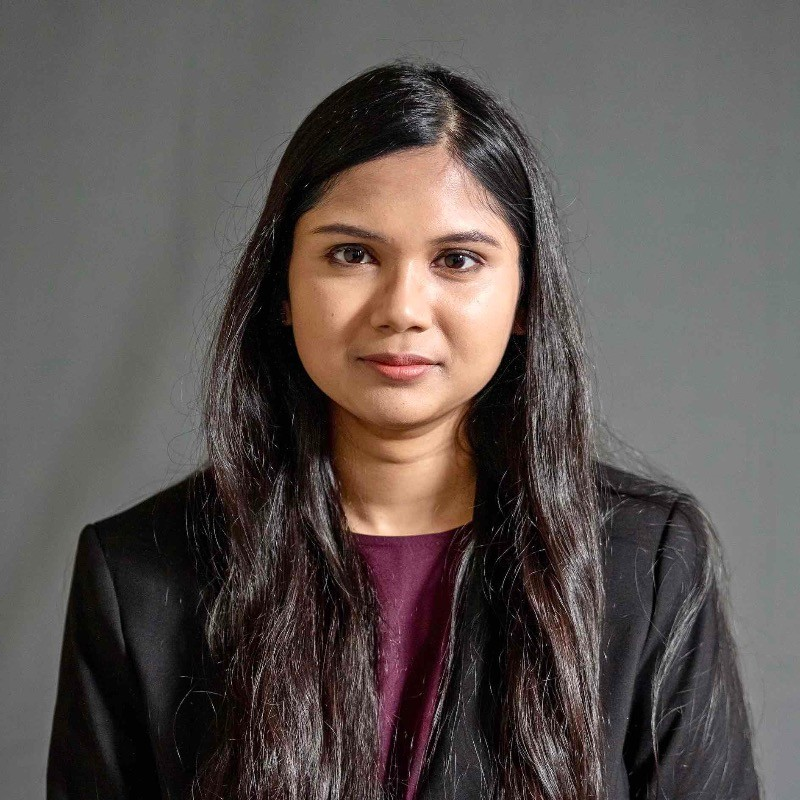
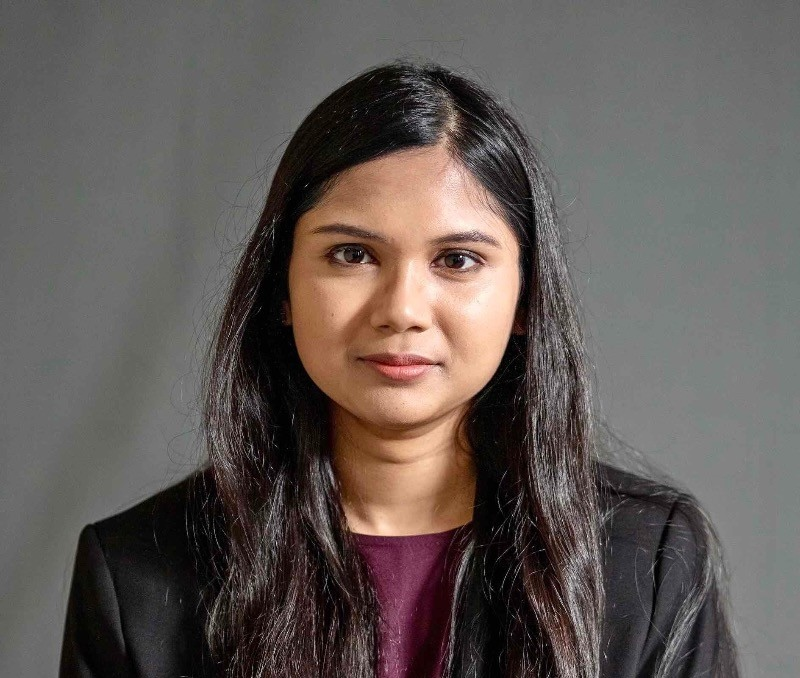
updates

diff --git a/talk/chimes-hybrid-and-complementary-gain-cells-for-high-bandwidth-on-chip-memory/index.html b/talk/chimes-hybrid-and-complementary-gain-cells-for-high-bandwidth-on-chip-memory/index.html
@@ -949,7 +949,7 @@ Further event details, including [page elements](https://wowchemy.com/docs/writi
   <div class="media author-card content-widget-hr">
     
       
-      <a href="https://ffathena.github.io/"><img class="avatar mr-3 avatar-circle" src="/authors/admin/avatar_hu331dc7261ef6de6188fea3c76a21b2f1_155947_270x270_fill_q75_lanczos_center.jpg" alt="Fabia Farlin Athena"></a>
+      <a href="https://ffathena.github.io/"><img class="avatar mr-3 avatar-circle" src="/authors/admin/avatar%20copy_hu331dc7261ef6de6188fea3c76a21b2f1_155947_270x270_fill_q75_lanczos_center.jpg" alt="Fabia Farlin Athena"></a>
     
 
     <div class="media-body">

diff --git a/talk/cra-wp-workshop-physical-electro-thermal-modeling-of-nano-scale-analog-synaptic-devices/index.html b/talk/cra-wp-workshop-physical-electro-thermal-modeling-of-nano-scale-analog-synaptic-devices/index.html
@@ -949,7 +949,7 @@ Further event details, including [page elements](https://wowchemy.com/docs/writi
   <div class="media author-card content-widget-hr">
     
       
-      <a href="https://ffathena.github.io/"><img class="avatar mr-3 avatar-circle" src="/authors/admin/avatar_hu331dc7261ef6de6188fea3c76a21b2f1_155947_270x270_fill_q75_lanczos_center.jpg" alt="Fabia Farlin Athena"></a>
+      <a href="https://ffathena.github.io/"><img class="avatar mr-3 avatar-circle" src="/authors/admin/avatar%20copy_hu331dc7261ef6de6188fea3c76a21b2f1_155947_270x270_fill_q75_lanczos_center.jpg" alt="Fabia Farlin Athena"></a>
     
 
     <div class="media-body">

diff --git a/talk/ibm-tj-watson-research-center-demonstration-of-a-deep-learning-application-in-14-nm-technology-based-rram-array/index.html b/talk/ibm-tj-watson-research-center-demonstration-of-a-deep-learning-application-in-14-nm-technology-based-rram-array/index.html
@@ -949,7 +949,7 @@ Further event details, including [page elements](https://wowchemy.com/docs/writi
   <div class="media author-card content-widget-hr">
     
       
-      <a href="https://ffathena.github.io/"><img class="avatar mr-3 avatar-circle" src="/authors/admin/avatar_hu331dc7261ef6de6188fea3c76a21b2f1_155947_270x270_fill_q75_lanczos_center.jpg" alt="Fabia Farlin Athena"></a>
+      <a href="https://ffathena.github.io/"><img class="avatar mr-3 avatar-circle" src="/authors/admin/avatar%20copy_hu331dc7261ef6de6188fea3c76a21b2f1_155947_270x270_fill_q75_lanczos_center.jpg" alt="Fabia Farlin Athena"></a>
     
 
     <div class="media-body">

diff --git a/talk/ibm-tj-watson-research-center-impact-of-active-layer-doping-and-barrier-layer-engineering-of-adaptive-oxide-rram/index.html b/talk/ibm-tj-watson-research-center-impact-of-active-layer-doping-and-barrier-layer-engineering-of-adaptive-oxide-rram/index.html
@@ -949,7 +949,7 @@ Further event details, including [page elements](https://wowchemy.com/docs/writi
   <div class="media author-card content-widget-hr">
     
       
-      <a href="https://ffathena.github.io/"><img class="avatar mr-3 avatar-circle" src="/authors/admin/avatar_hu331dc7261ef6de6188fea3c76a21b2f1_155947_270x270_fill_q75_lanczos_center.jpg" alt="Fabia Farlin Athena"></a>
+      <a href="https://ffathena.github.io/"><img class="avatar mr-3 avatar-circle" src="/authors/admin/avatar%20copy_hu331dc7261ef6de6188fea3c76a21b2f1_155947_270x270_fill_q75_lanczos_center.jpg" alt="Fabia Farlin Athena"></a>
     
 
     <div class="media-body">

diff --git a/talk/ibm-tj-watson-research-center-talk-title-redacted-internal/index.html b/talk/ibm-tj-watson-research-center-talk-title-redacted-internal/index.html
@@ -949,7 +949,7 @@ Further event details, including [page elements](https://wowchemy.com/docs/writi
   <div class="media author-card content-widget-hr">
     
       
-      <a href="https://ffathena.github.io/"><img class="avatar mr-3 avatar-circle" src="/authors/admin/avatar_hu331dc7261ef6de6188fea3c76a21b2f1_155947_270x270_fill_q75_lanczos_center.jpg" alt="Fabia Farlin Athena"></a>
+      <a href="https://ffathena.github.io/"><img class="avatar mr-3 avatar-circle" src="/authors/admin/avatar%20copy_hu331dc7261ef6de6188fea3c76a21b2f1_155947_270x270_fill_q75_lanczos_center.jpg" alt="Fabia Farlin Athena"></a>
     
 
     <div class="media-body">

diff --git a/talk/iedm-first-demonstration-of-an-n-p-oxide-semiconductor-complementary-gain-cell-memory/index.html b/talk/iedm-first-demonstration-of-an-n-p-oxide-semiconductor-complementary-gain-cell-memory/index.html
@@ -949,7 +949,7 @@ Further event details, including [page elements](https://wowchemy.com/docs/writi
   <div class="media author-card content-widget-hr">
     
       
-      <a href="https://ffathena.github.io/"><img class="avatar mr-3 avatar-circle" src="/authors/admin/avatar_hu331dc7261ef6de6188fea3c76a21b2f1_155947_270x270_fill_q75_lanczos_center.jpg" alt="Fabia Farlin Athena"></a>
+      <a href="https://ffathena.github.io/"><img class="avatar mr-3 avatar-circle" src="/authors/admin/avatar%20copy_hu331dc7261ef6de6188fea3c76a21b2f1_155947_270x270_fill_q75_lanczos_center.jpg" alt="Fabia Farlin Athena"></a>
     
 
     <div class="media-body">

diff --git a/talk/mrs-fall-2023-a-novel-electrical-bias-technique-to-recover-degraded-reram-arrays-for-deep-learning/index.html b/talk/mrs-fall-2023-a-novel-electrical-bias-technique-to-recover-degraded-reram-arrays-for-deep-learning/index.html
@@ -949,7 +949,7 @@ Further event details, including [page elements](https://wowchemy.com/docs/writi
   <div class="media author-card content-widget-hr">
     
       
-      <a href="https://ffathena.github.io/"><img class="avatar mr-3 avatar-circle" src="/authors/admin/avatar_hu331dc7261ef6de6188fea3c76a21b2f1_155947_270x270_fill_q75_lanczos_center.jpg" alt="Fabia Farlin Athena"></a>
+      <a href="https://ffathena.github.io/"><img class="avatar mr-3 avatar-circle" src="/authors/admin/avatar%20copy_hu331dc7261ef6de6188fea3c76a21b2f1_155947_270x270_fill_q75_lanczos_center.jpg" alt="Fabia Farlin Athena"></a>
     
 
     <div class="media-body">

diff --git a/talk/mrs-fall-2023-describing-the-analog-resistance-change-of-hfox-neuromorphic-synapses/index.html b/talk/mrs-fall-2023-describing-the-analog-resistance-change-of-hfox-neuromorphic-synapses/index.html
@@ -949,7 +949,7 @@ Further event details, including [page elements](https://wowchemy.com/docs/writi
   <div class="media author-card content-widget-hr">
     
       
-      <a href="https://ffathena.github.io/"><img class="avatar mr-3 avatar-circle" src="/authors/admin/avatar_hu331dc7261ef6de6188fea3c76a21b2f1_155947_270x270_fill_q75_lanczos_center.jpg" alt="Fabia Farlin Athena"></a>
+      <a href="https://ffathena.github.io/"><img class="avatar mr-3 avatar-circle" src="/authors/admin/avatar%20copy_hu331dc7261ef6de6188fea3c76a21b2f1_155947_270x270_fill_q75_lanczos_center.jpg" alt="Fabia Farlin Athena"></a>
     
 
     <div class="media-body">

diff --git a/talk/mrs-spring-2022-controlling-the-oxygen-ion-motion-using-a-diffusion-barrier-layer-in-hfox-based-analog-memory/index.html b/talk/mrs-spring-2022-controlling-the-oxygen-ion-motion-using-a-diffusion-barrier-layer-in-hfox-based-analog-memory/index.html
@@ -949,7 +949,7 @@ Further event details, including [page elements](https://wowchemy.com/docs/writi
   <div class="media author-card content-widget-hr">
     
       
-      <a href="https://ffathena.github.io/"><img class="avatar mr-3 avatar-circle" src="/authors/admin/avatar_hu331dc7261ef6de6188fea3c76a21b2f1_155947_270x270_fill_q75_lanczos_center.jpg" alt="Fabia Farlin Athena"></a>
+      <a href="https://ffathena.github.io/"><img class="avatar mr-3 avatar-circle" src="/authors/admin/avatar%20copy_hu331dc7261ef6de6188fea3c76a21b2f1_155947_270x270_fill_q75_lanczos_center.jpg" alt="Fabia Farlin Athena"></a>
     
 
     <div class="media-body">

diff --git a/talk/mrs-spring-2023-assessing-the-impact-of-ti-doping-and-max-phase-ti2aln-electrode-in-hfox-neuromorphic-devices/index.html b/talk/mrs-spring-2023-assessing-the-impact-of-ti-doping-and-max-phase-ti2aln-electrode-in-hfox-neuromorphic-devices/index.html
@@ -949,7 +949,7 @@ Further event details, including [page elements](https://wowchemy.com/docs/writi
   <div class="media author-card content-widget-hr">
     
       
-      <a href="https://ffathena.github.io/"><img class="avatar mr-3 avatar-circle" src="/authors/admin/avatar_hu331dc7261ef6de6188fea3c76a21b2f1_155947_270x270_fill_q75_lanczos_center.jpg" alt="Fabia Farlin Athena"></a>
+      <a href="https://ffathena.github.io/"><img class="avatar mr-3 avatar-circle" src="/authors/admin/avatar%20copy_hu331dc7261ef6de6188fea3c76a21b2f1_155947_270x270_fill_q75_lanczos_center.jpg" alt="Fabia Farlin Athena"></a>
     
 
     <div class="media-body">

diff --git a/talk/stanford-university-adaptive-oxide-devices-for-brain-inspired-computing/index.html b/talk/stanford-university-adaptive-oxide-devices-for-brain-inspired-computing/index.html
@@ -949,7 +949,7 @@ Further event details, including [page elements](https://wowchemy.com/docs/writi
   <div class="media author-card content-widget-hr">
     
       
-      <a href="https://ffathena.github.io/"><img class="avatar mr-3 avatar-circle" src="/authors/admin/avatar_hu331dc7261ef6de6188fea3c76a21b2f1_155947_270x270_fill_q75_lanczos_center.jpg" alt="Fabia Farlin Athena"></a>
+      <a href="https://ffathena.github.io/"><img class="avatar mr-3 avatar-circle" src="/authors/admin/avatar%20copy_hu331dc7261ef6de6188fea3c76a21b2f1_155947_270x270_fill_q75_lanczos_center.jpg" alt="Fabia Farlin Athena"></a>
     
 
     <div class="media-body">

diff --git a/talk/stanford-university-filamentary-and-ferroelectric-semiconductor-junction-devices-for-brain-inspired-computing-from-physics-to-deep-learning/index.html b/talk/stanford-university-filamentary-and-ferroelectric-semiconductor-junction-devices-for-brain-inspired-computing-from-physics-to-deep-learning/index.html
@@ -949,7 +949,7 @@ Further event details, including [page elements](https://wowchemy.com/docs/writi
   <div class="media author-card content-widget-hr">
     
       
-      <a href="https://ffathena.github.io/"><img class="avatar mr-3 avatar-circle" src="/authors/admin/avatar_hu331dc7261ef6de6188fea3c76a21b2f1_155947_270x270_fill_q75_lanczos_center.jpg" alt="Fabia Farlin Athena"></a>
+      <a href="https://ffathena.github.io/"><img class="avatar mr-3 avatar-circle" src="/authors/admin/avatar%20copy_hu331dc7261ef6de6188fea3c76a21b2f1_155947_270x270_fill_q75_lanczos_center.jpg" alt="Fabia Farlin Athena"></a>
     
 
     <div class="media-body">
